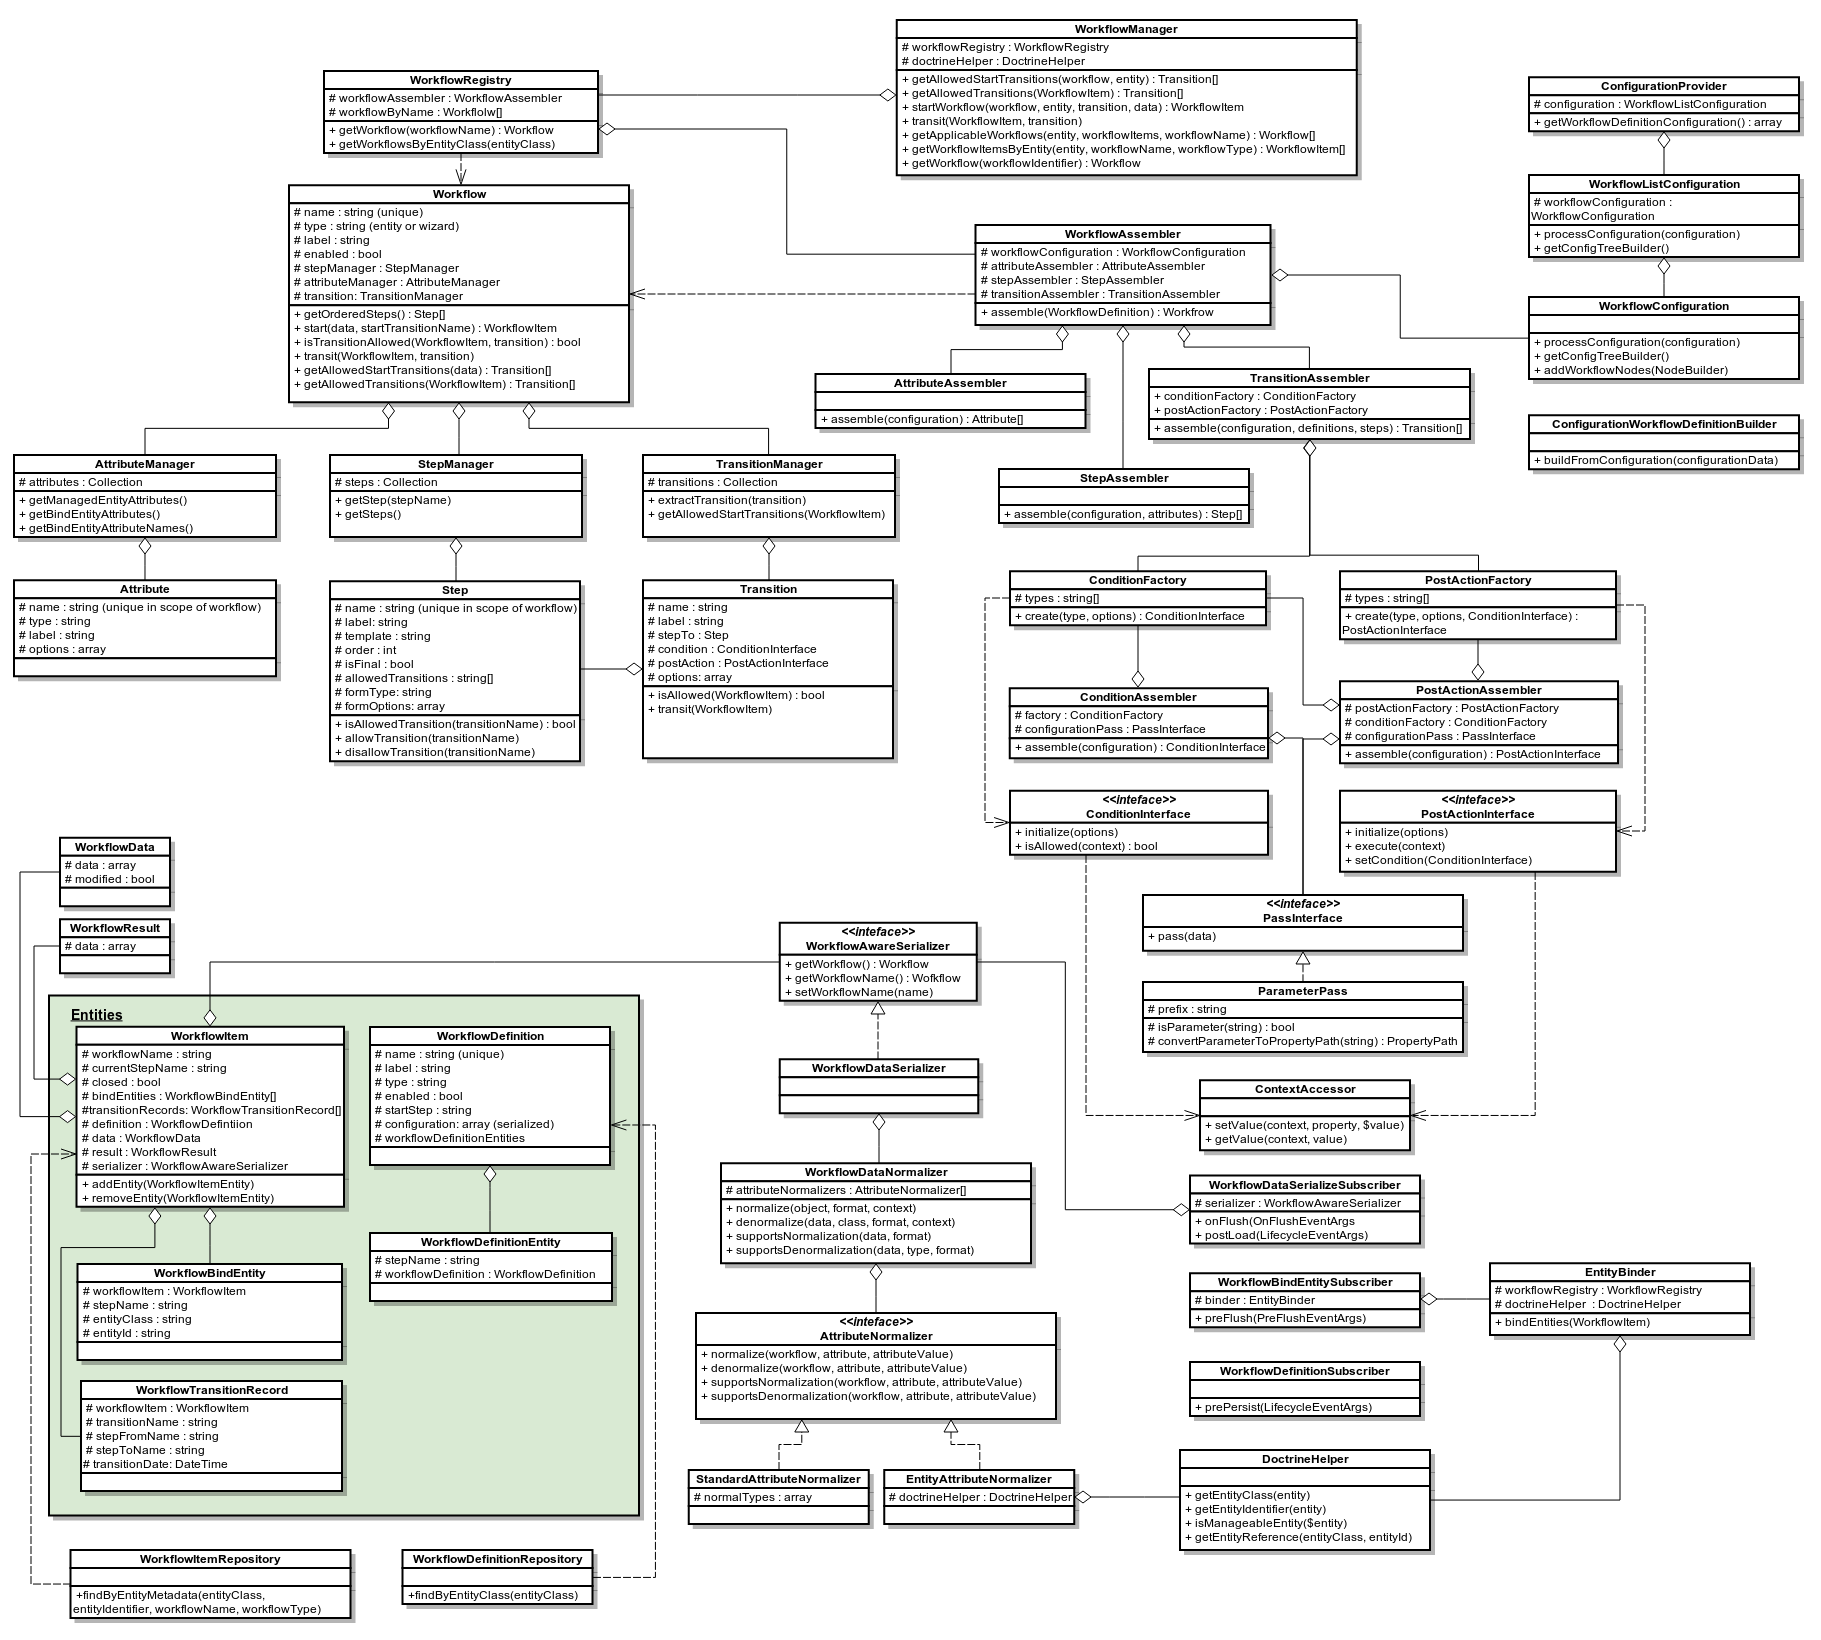
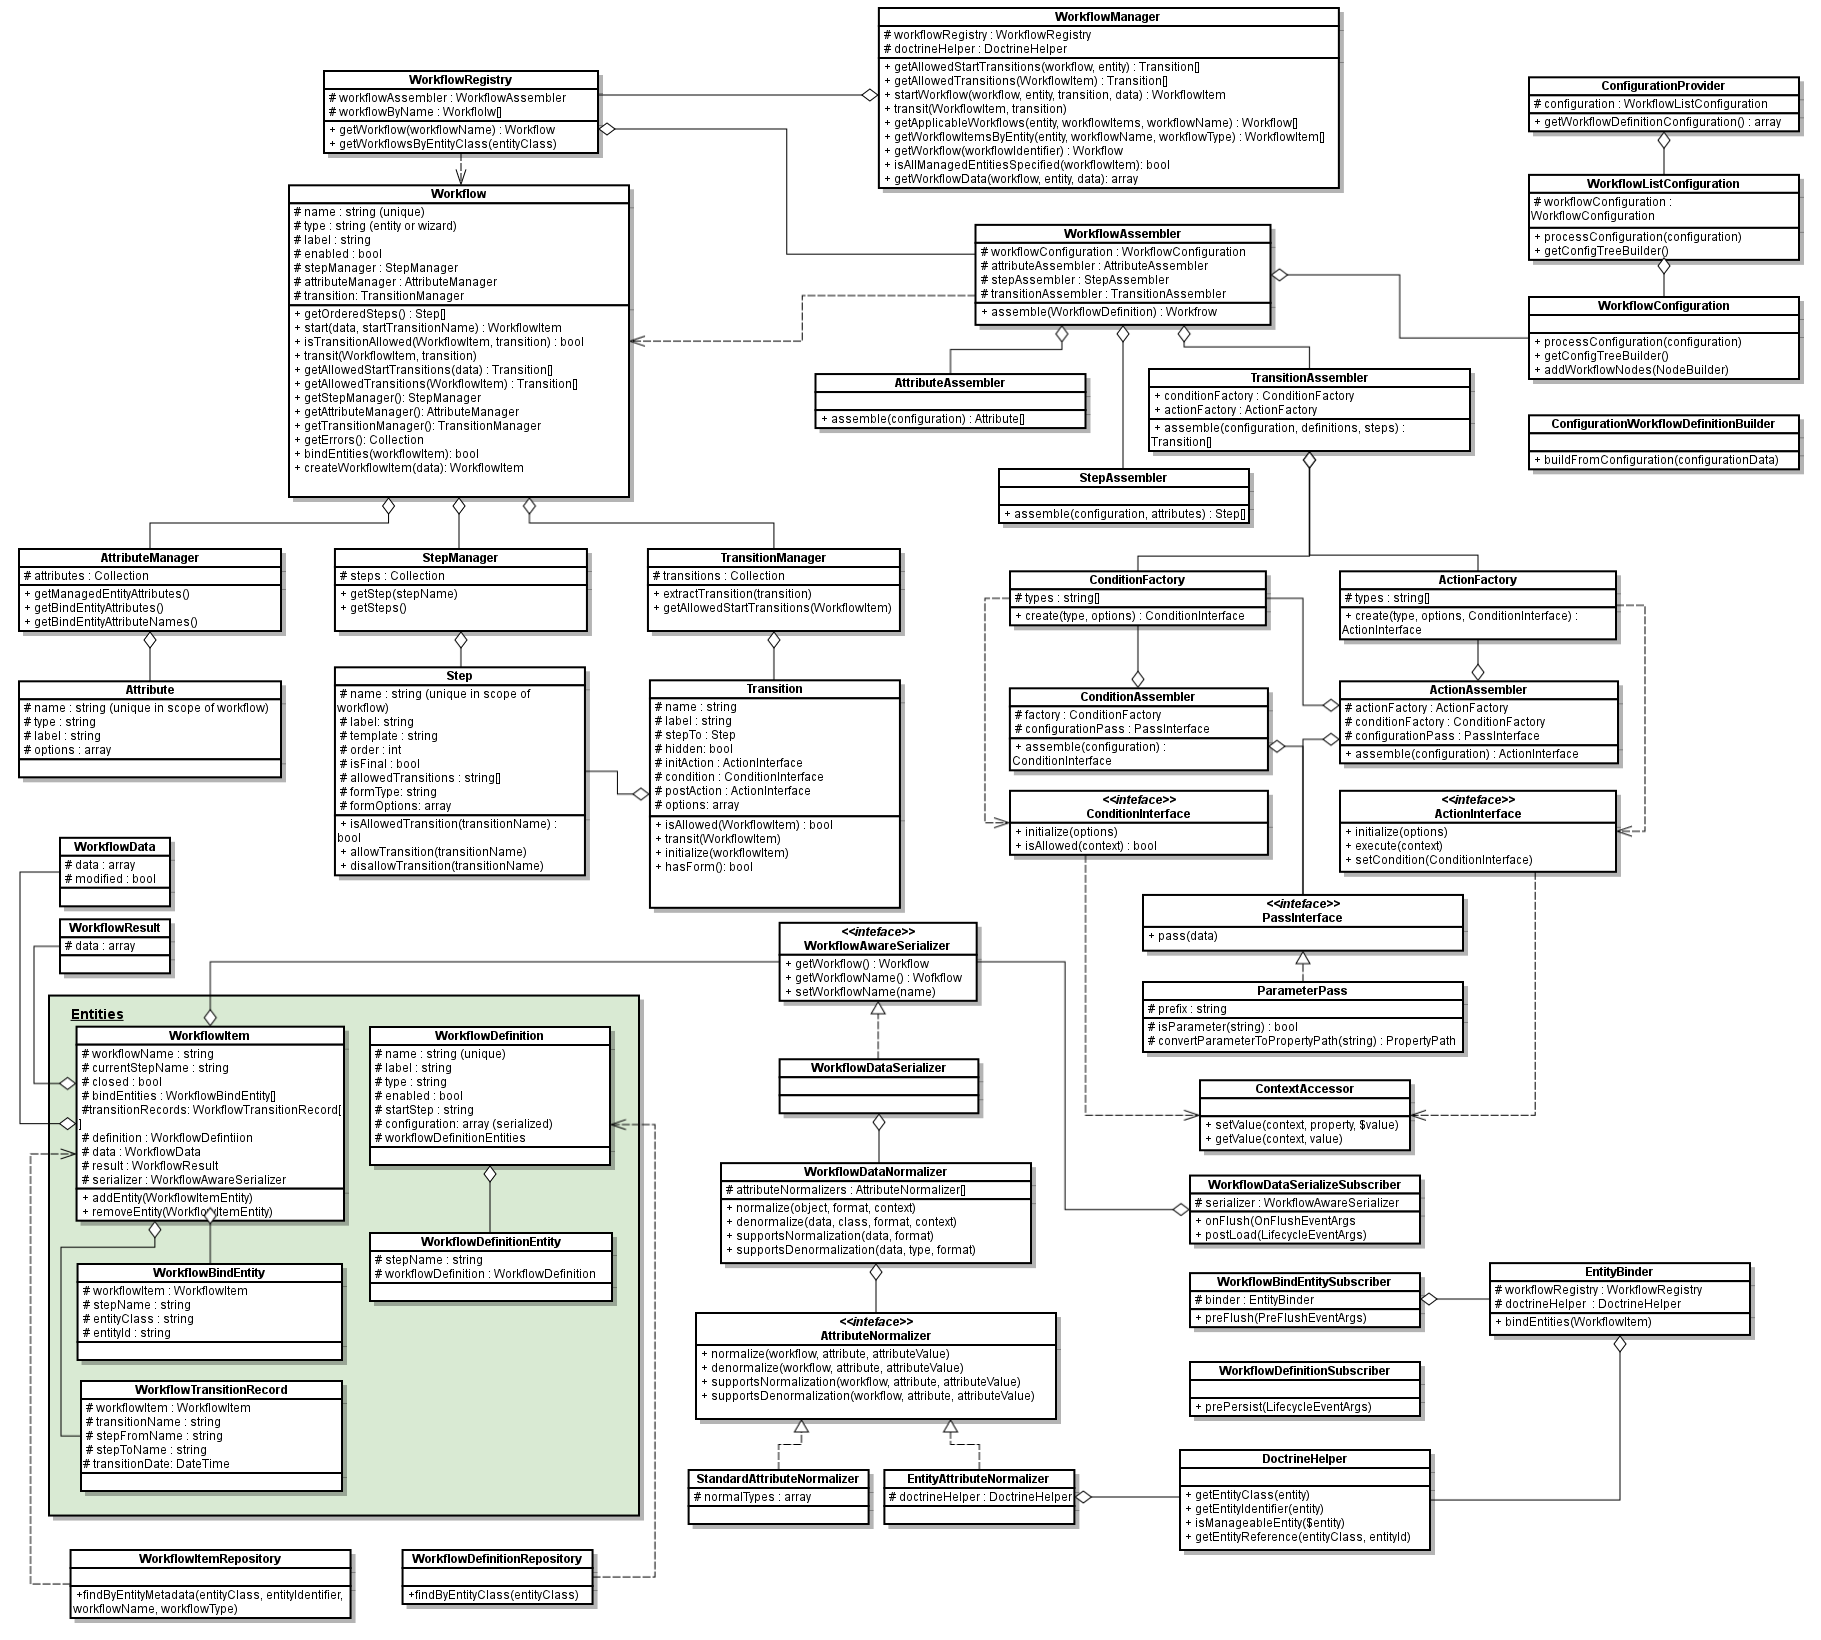
BAP-2165: Update workflow documentation - updated docs and class diagram

diff --git a/Bundle/WorkflowBundle/Resources/doc/reference/configuration-reference.md b/Bundle/WorkflowBundle/Resources/doc/reference/configuration-reference.md
@@ -307,6 +307,11 @@ Transition configuration has next options:
     *boolean*
     If true than this transition can be used to start new workflow. At least one start transition is required if
     workflow doesn't have start_step attribute.
+* **form_type**
+    *string (oro_workflow_attributes - default)*
+    A form type that will be used to render form of transition.
+* **form_options**
+    These options will be passed to form type of transition, they can contain options for form types of attributes.
 * **frontend_options**
     Can have such frontend options as **class** (a CSS class applied to transition button), **icon**
     (CSS class of icon of transition button).
@@ -331,6 +336,12 @@ workflows:
                 frontend_options:                           # options of transition
                     icon: 'icon-ok'
                     class: 'btn-primary'
+                form_options:
+                    attribute_fields:
+                        budget_amount:
+                            form_type: oro_money
+                            options:
+                                required: false
             not_answered:
                 label: "Not answered"
                 step_to: end_call
